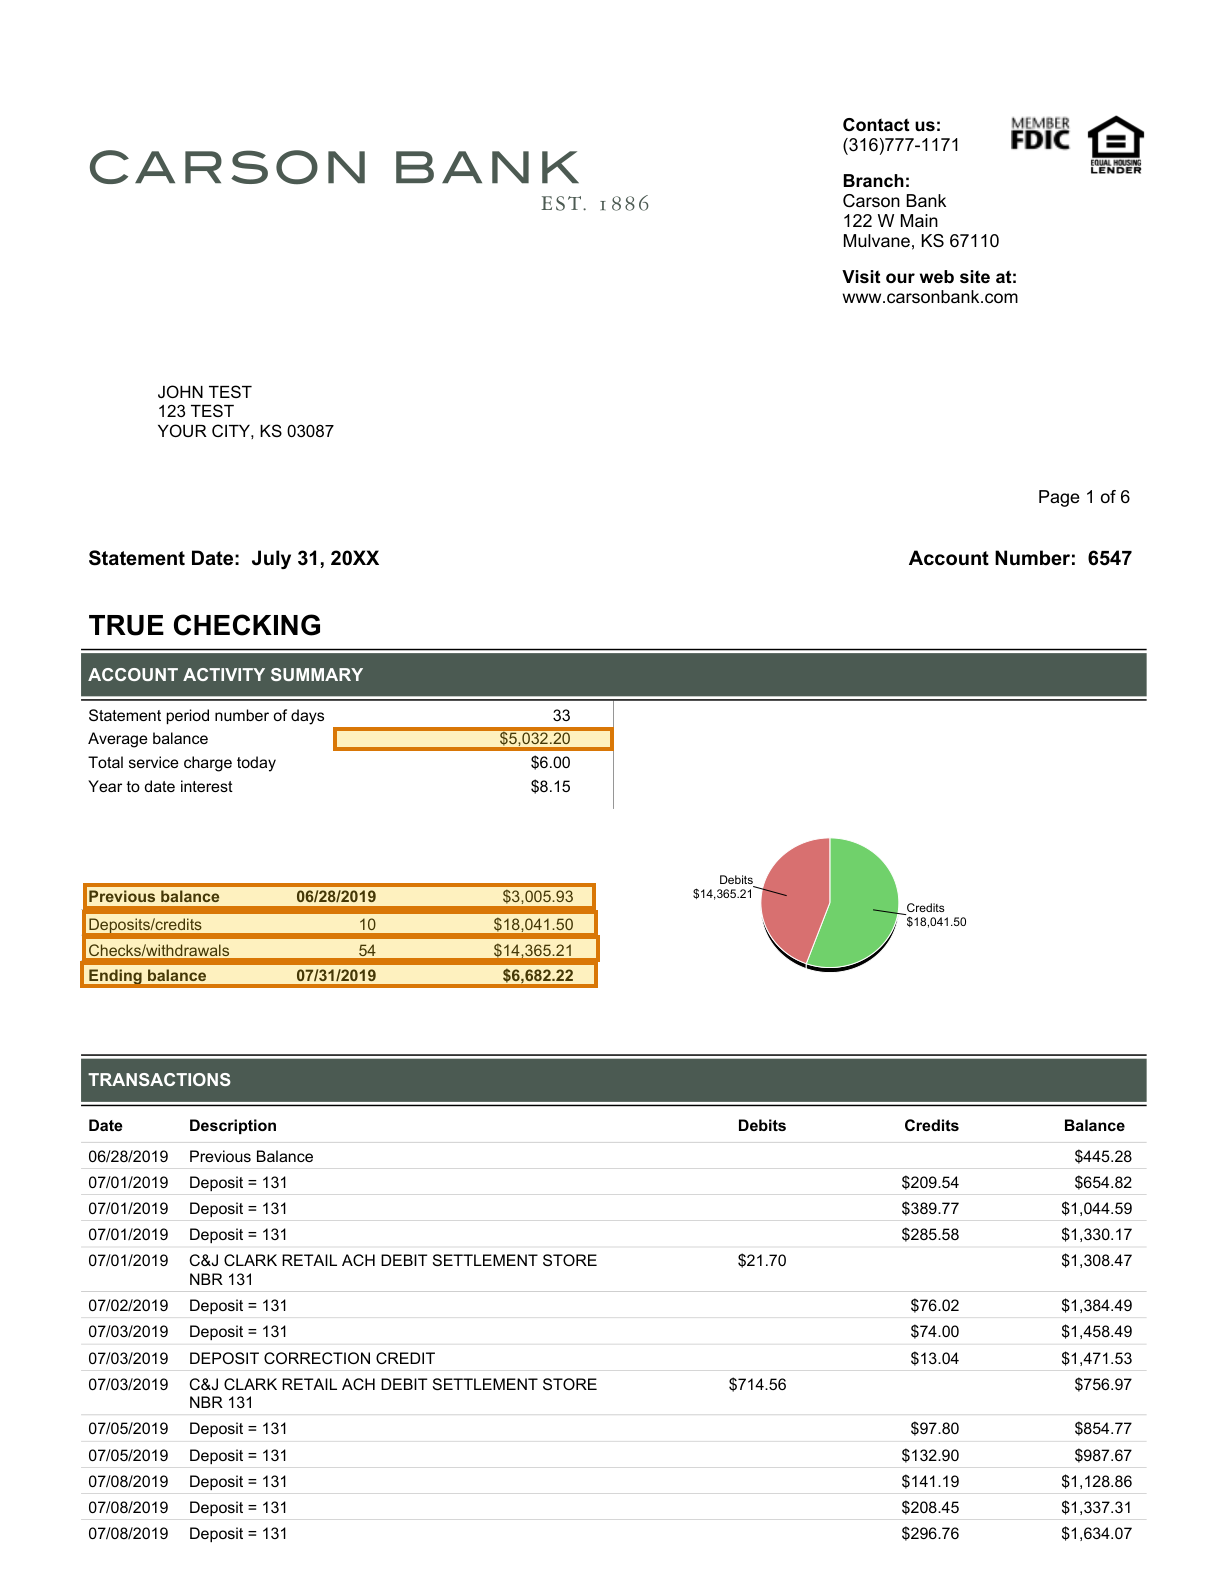
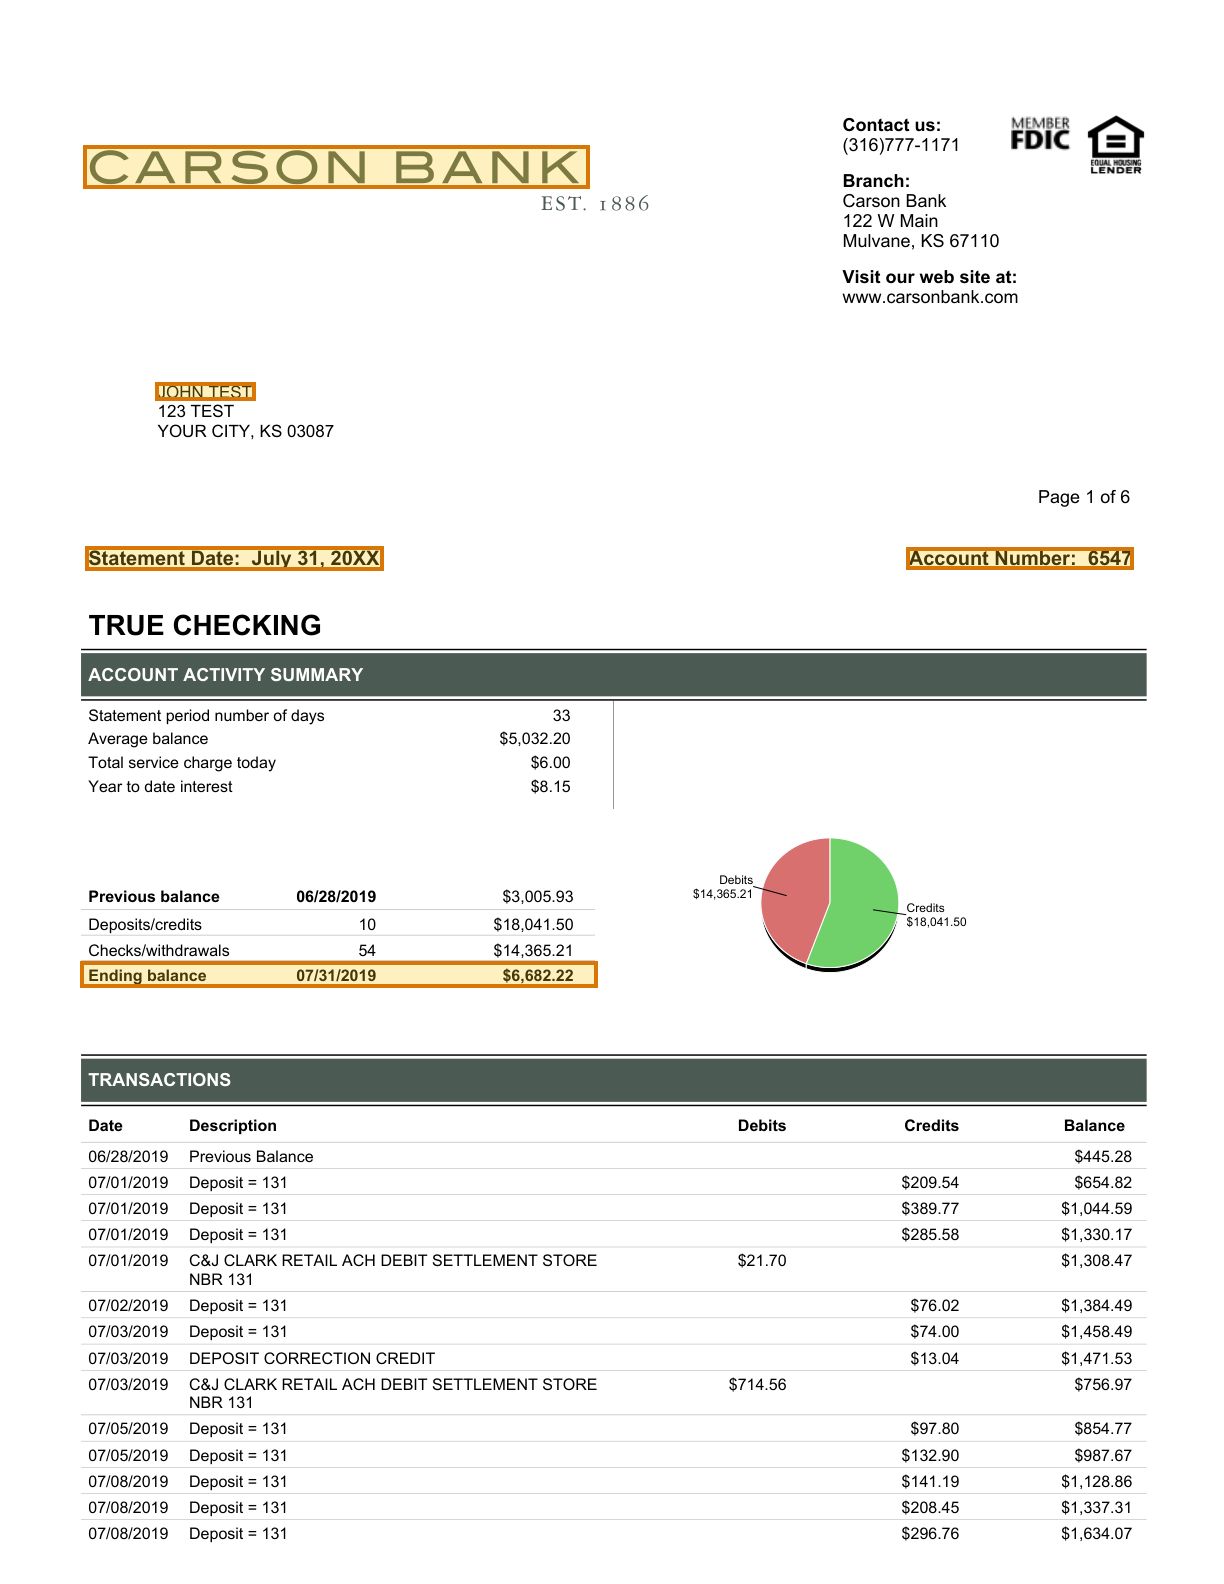
Feature the lending fields on the bank statement
Institution, account holder, account number, statement date and ending
balance, at the document owner's request, in place of the activity
summary's inflows and outflows.

diff --git a/document-types/collection/bank-statement/README.md b/document-types/collection/bank-statement/README.md
@@ -43,22 +43,24 @@ The collection's first **standard checking statement**:
   credit, each with its own account number and summary.
 - **Checks in a three-column list,** with asterisks marking breaks in the number sequence.
 
-## Featured fields: the account activity summary
+## Featured fields: what a lender verifies
 
-All on page 1. The request named no page or fields, so these were chosen:
+All on page 1. At the document owner's request, these are the fields a lender reads from a
+bank statement to verify an applicant's funds:
 
 | Field | Value |
 |---|---|
-| Previous balance | $3,005.93 |
-| Deposits and credits | $18,041.50 |
-| Checks and withdrawals | $14,365.21 |
+| Institution | CARSON BANK |
+| Account holder | JOHN TEST |
+| Account number | 6547 |
+| Statement date | July 31, 20XX |
 | Ending balance | $6,682.22 |
-| Average balance | $5,032.20 |
 
-The month on the account as one story, which reconciles: $3,005.93 plus $18,041.50 less
-$14,365.21 is $6,682.22. The four balance lines ground to their whole row of the summary
-table (label, date and amount), so each box spans the row; the average balance grounds to
-its value alone.
+Inflows and outflows are extracted but not featured; for lending, what matters is who
+holds the account, where, and what was in it on the statement date. The account holder
+is specimen data. The ending balance grounds to its whole row of the summary table
+(label, date and amount). The statement date is kept as printed, since the sample's year
+is "20XX".
 
 ## What it surfaced
 
@@ -73,6 +75,10 @@ catch every one of these.
 **The register extracts completely.** All 47 transactions match the page on date,
 description, amount and running balance, including across the page break and where
 descriptions wrap. All 8 checks come back, with both sequence breaks flagged.
+
+**The bank name is read from artwork.** The CARSON BANK wordmark is vector drawing
+with no text behind it, so a PDF text extractor finds nothing there. The parse reads the
+name off the drawing, and extraction grounds the institution to it.
 
 **The chart labels ground too.** The pie chart's "$18,041.50" and "$14,365.21" labels are
 the second occurrence of the deposits and withdrawals totals, so the values are found in
